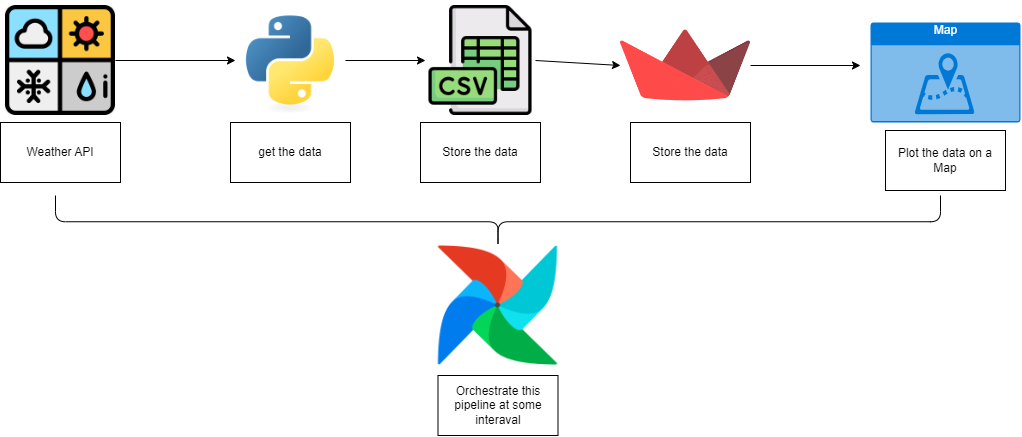
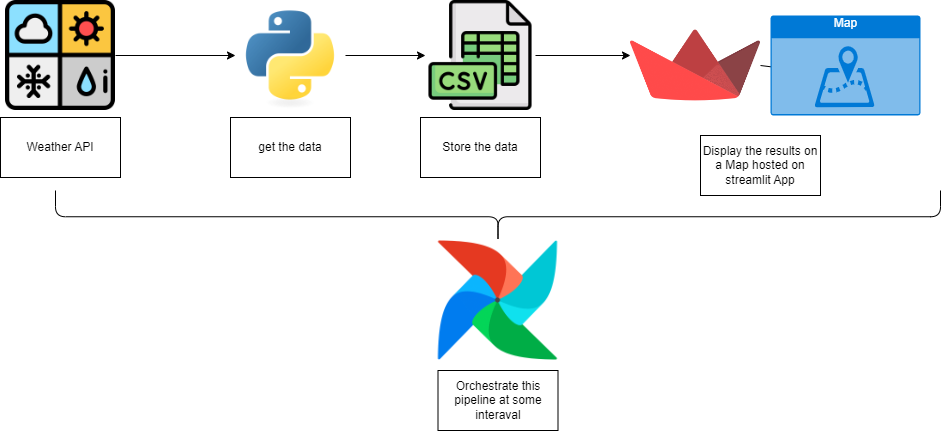
Add - geospatial data pipeline

diff --git a/readme.md b/readme.md
@@ -2,7 +2,24 @@
 
 This project demonstrates how to orchestrate a geospatial data pipeline using Apache Airflow. The pipeline updates weather data for the top 25 cities in India every 5 minutes.
 
-## Overview
+# Overview
+
+## Pipeline Workflow
+
+1. **Data Loading**: The application loads weather data from a CSV file and metadata from a JSON file.
+
+   - The CSV file contains temperature and location data for various cities.
+   - The JSON file contains export information such as export time and path.
+
+2. **Data Processing**: The data is sorted by temperature to prepare for visualization.
+
+3. **Map Visualization**:
+
+   - A Folium map is created, centered on India.
+   - Each city is represented by a circle marker, with color indicating temperature.
+   - The map updates every 5 seconds to reflect the latest data.
+
+4. **User Interface**: The Streamlit app provides a user-friendly interface with a header and metadata display.
 
 - **Data Source**: Weather data is fetched from the [OpenWeatherMap API](https://openweathermap.org/api).
 - **Folder Structure**:
